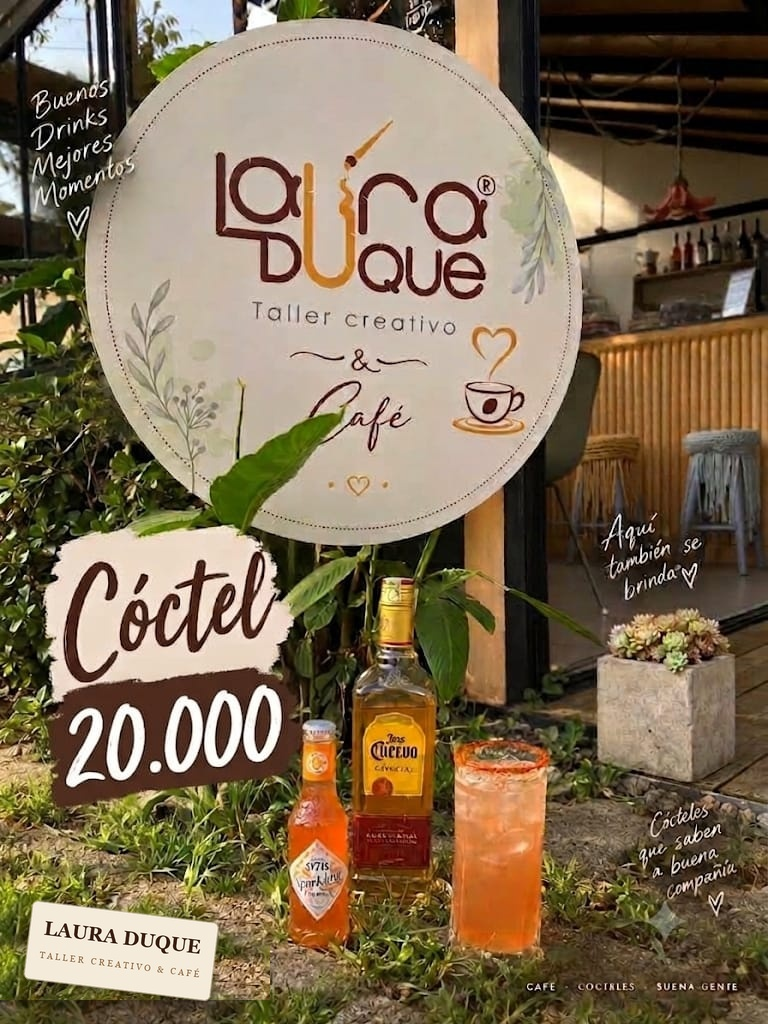
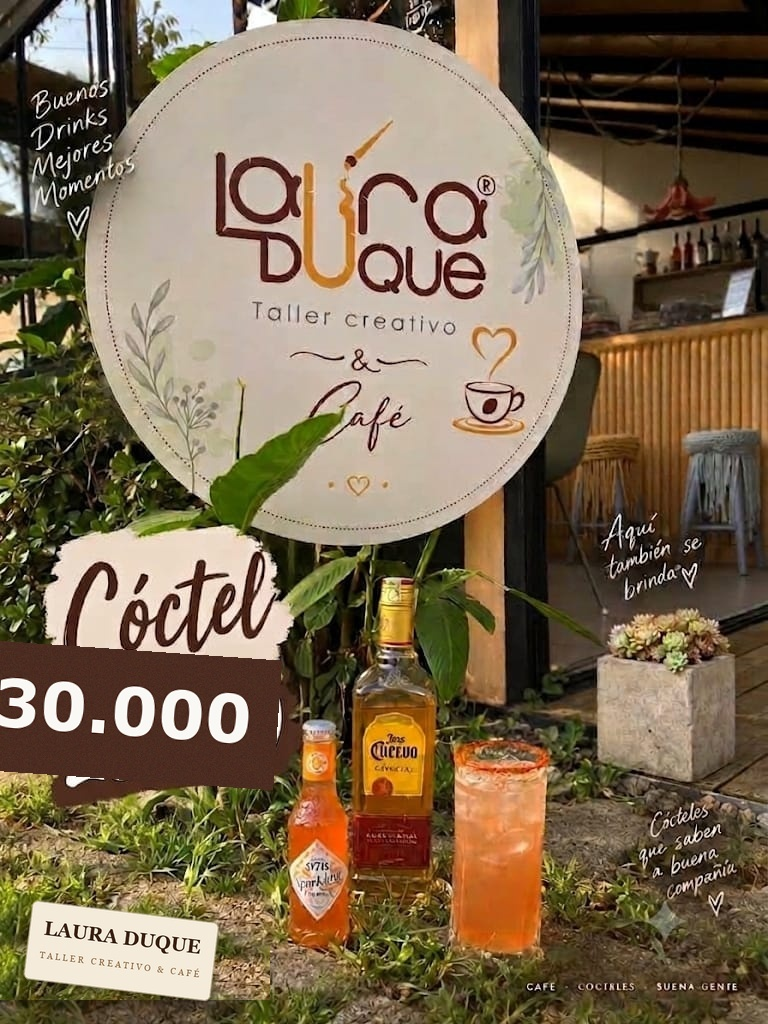
Fix cocktail prices to $30.000, add new exterior and cafe gallery photos

Changed region(s): [[0.0, 0.625, 0.375, 0.7812]]

diff --git a/index.html b/index.html
@@ -281,10 +281,12 @@
   .gallery-grid{display:grid;grid-template-columns:repeat(4,1fr);gap:16px;}
   .gallery-grid figure{margin:0;border-radius:22px;overflow:hidden;aspect-ratio:3/4;}
   .gallery-grid figure.wide{grid-column:1 / -1;aspect-ratio:2.6/1;}
+  .gallery-grid figure.landscape{grid-column:span 2;aspect-ratio:4/3;}
   .gallery-grid img{width:100%;height:100%;object-fit:cover;display:block;}
   @media (max-width:760px){
     .gallery-grid{grid-template-columns:repeat(2,1fr);}
     .gallery-grid figure.wide{aspect-ratio:16/9;}
+    .gallery-grid figure.landscape{grid-column:1 / -1;}
   }
   @media (max-width:480px){.gallery-grid{grid-template-columns:1fr;}}
 
@@ -506,12 +508,17 @@
     </div>
     <div class="gallery-grid">
       <figure class="wide"><img src="local-noche.jpg" alt="Fachada de Laura Duque Design al anochecer, con el letrero iluminado junto a la vía"></figure>
+      <figure class="landscape"><img src="exterior-atardecer.jpg" alt="Fachada de Laura Duque Design al atardecer, con luces cálidas"></figure>
+      <figure class="landscape"><img src="exterior-noche2.jpg" alt="Entrada de Laura Duque Design de noche, con el logo junto a la puerta"></figure>
       <figure><img src="terraza-dia.jpg" alt="Terraza de Laura Duque Design de día, con cócteles sobre la mesa"></figure>
       <figure><img src="terraza-noche.jpg" alt="Terraza de Laura Duque Design al atardecer, con luces cálidas y cócteles"></figure>
       <figure><img src="torta-zanahoria.jpg" alt="Torta de zanahoria en la vitrina del café"></figure>
       <figure><img src="torta-bebida.jpg" alt="Torta y bebida servidas en el salón, con vista a la montaña"></figure>
-      <figure><img src="coctel-1.jpg" alt="Cóctel margarita junto al letrero de Laura Duque, promoción de cóctel a $20.000"></figure>
-      <figure><img src="coctel-2.jpg" alt="Cóctel margarita con tequila José Cuervo y triple sec, terraza de Laura Duque"></figure>
+      <figure><img src="coctel-1.jpg" alt="Cóctel margarita junto al letrero de Laura Duque, promoción de cóctel a $30.000"></figure>
+      <figure><img src="coctel-2.jpg" alt="Cóctel margarita con tequila José Cuervo y triple sec, terraza de Laura Duque, promoción a $30.000"></figure>
+      <figure><img src="mesa-carta.jpg" alt="Mesa junto a la ventana con café, postre y la Carta Digital"></figure>
+      <figure><img src="brownie-matcha.jpg" alt="Brownie con malvaviscos y matcha latte en el rincón de sillones"></figure>
+      <figure><img src="cafe-pastel.jpg" alt="Café y caracola de hojaldre recién horneada"></figure>
     </div>
   </div>
 </section>
